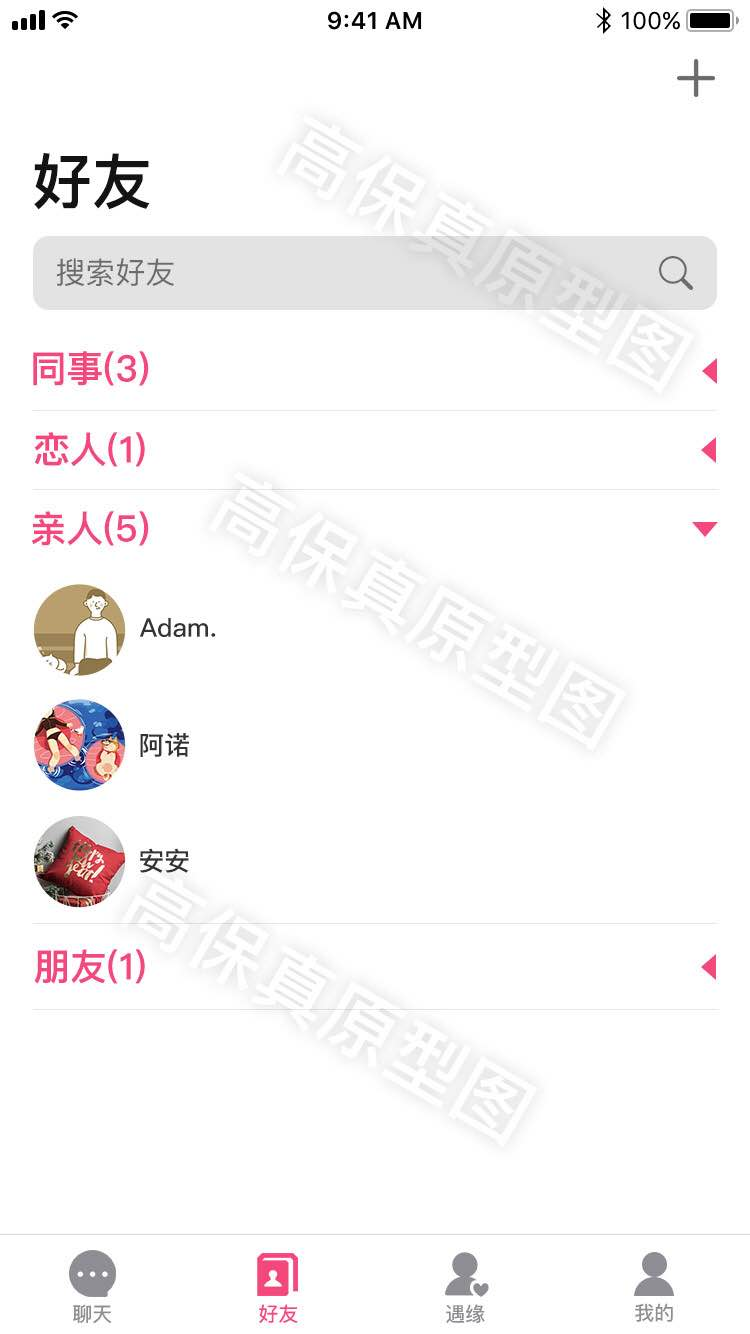
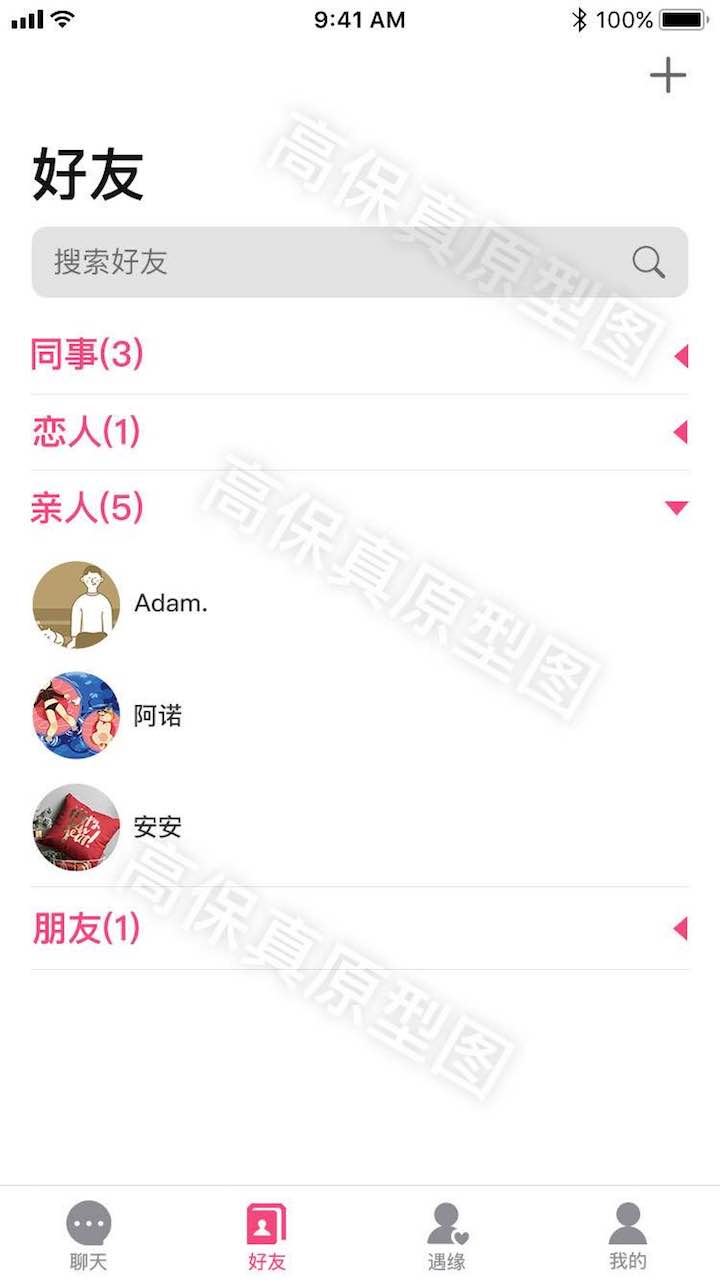
调整好友的界面

diff --git a/app/src/main/java/com/agmbat/meetyou/tab/MeetDatabase.java b/app/src/main/java/com/agmbat/meetyou/tab/MeetDatabase.java
@@ -3,6 +3,7 @@ package com.agmbat.meetyou.tab;
 import com.agmbat.meetyou.data.ChatMessage;
 import com.agmbat.meetyou.data.ContactInfo;
 import com.agmbat.meetyou.data.RecentChat;
+import com.agmbat.meetyou.tab.contacts.GroupHolder;
 
 import java.util.ArrayList;
 import java.util.List;
@@ -40,6 +41,36 @@ public class MeetDatabase {
         return list;
     }
 
+    public List<GroupHolder> getGroupList(String mLoginUserName) {
+        List<GroupHolder> groups = new ArrayList<GroupHolder>();
+
+        GroupHolder group1 = new GroupHolder("同事");
+        List<ContactInfo> friends = queryFriends(mLoginUserName);
+        group1.setContactList(friends);
+
+        GroupHolder group2 = new GroupHolder("恋人");
+        List<ContactInfo> recentContacts = queryRecentContacts(mLoginUserName);
+        group2.setContactList(recentContacts);
+
+        GroupHolder group3 = new GroupHolder("亲人");
+        List<ContactInfo> blockContacts = queryAllBlockUsers(mLoginUserName);
+        group3.setContactList(blockContacts);
+
+        GroupHolder group4 = new GroupHolder("朋友");
+        List<ContactInfo> blockContacts1 = queryAllBlockUsers(mLoginUserName);
+        group4.setContactList(blockContacts1);
+
+//        friendGroup.sort();
+        // recentlyGroup.sort();
+//        blockGroup.sort();
+
+        groups.add(group1);
+        groups.add(group2);
+        groups.add(group3);
+        groups.add(group4);
+        return groups;
+    }
+
     private RecentChat queryRecentChatFor(ContactInfo contactInfo) {
         RecentChat recentChat = new RecentChat();
         recentChat.setContact(contactInfo);
@@ -53,6 +84,7 @@ public class MeetDatabase {
         List<ContactInfo> list = new ArrayList<ContactInfo>();
         for (int i = 0; i < 10; i++) {
             ContactInfo contactInfo = new ContactInfo();
+            contactInfo.setNickname("Friends" + i);
             list.add(contactInfo);
         }
         return list;
@@ -62,6 +94,7 @@ public class MeetDatabase {
         List<ContactInfo> list = new ArrayList<ContactInfo>();
         for (int i = 0; i < 10; i++) {
             ContactInfo contactInfo = new ContactInfo();
+            contactInfo.setNickname("Friends" + i);
             list.add(contactInfo);
         }
         return list;
@@ -71,6 +104,7 @@ public class MeetDatabase {
         List<ContactInfo> list = new ArrayList<ContactInfo>();
         for (int i = 0; i < 10; i++) {
             ContactInfo contactInfo = new ContactInfo();
+            contactInfo.setNickname("Friends" + i);
             list.add(contactInfo);
         }
         return list;

diff --git a/app/src/main/java/com/agmbat/meetyou/tab/contacts/ContactsView.java b/app/src/main/java/com/agmbat/meetyou/tab/contacts/ContactsView.java
@@ -6,30 +6,49 @@ import android.widget.ImageView;
 import android.widget.RelativeLayout;
 import android.widget.TextView;
 
+import com.agmbat.android.image.ImageManager;
 import com.agmbat.meetyou.R;
 import com.agmbat.meetyou.data.ContactInfo;
+import com.nostra13.universalimageloader.core.DisplayImageOptions;
+import com.nostra13.universalimageloader.core.display.CircleBitmapDisplayer;
 
 public class ContactsView extends RelativeLayout {
 
     public ImageView mAvatarView;
     public TextView mNameView;
-    public TextView mPersonalMsgView;
-    public TextView mStatusView;
 
     public ContactsView(Context context) {
         super(context);
         View.inflate(context, R.layout.contacts_item, this);
         mAvatarView = (ImageView) findViewById(R.id.avatar);
         mNameView = (TextView) findViewById(R.id.name);
-        mPersonalMsgView = (TextView) findViewById(R.id.personal_msg);
-        mStatusView = (TextView) findViewById(R.id.status);
     }
 
     public void update(ContactInfo contactInfo) {
-        mAvatarView.setImageResource(R.drawable.ic_default_avatar);
-        mNameView.setText(contactInfo.getDisplayName());
-        mPersonalMsgView.setText(contactInfo.getPersonalMsg());
-        mStatusView.setText("在线");
+        mNameView.setText(contactInfo.getNickName());
+        String uri = "https://ss2.bdstatic.com/70cFvnSh_Q1YnxGkpoWK1HF6hhy/it/u=3109469113,4179252995&fm=27&gp=0.jpg";
+        ImageManager.displayImage(uri, mAvatarView, getOptions());
     }
 
+    /**
+     * 图片显示参数
+     */
+    private static DisplayImageOptions sOptions = null;
+
+    private static DisplayImageOptions getOptions() {
+        if (sOptions == null) {
+            DisplayImageOptions.Builder builder = new DisplayImageOptions.Builder();
+            // builder.showImageOnLoading(R.drawable.ic_stub);
+            int drawableId = R.drawable.ic_default_avatar;
+            builder.showImageForEmptyUri(drawableId);
+            builder.showImageOnFail(drawableId);
+            builder.cacheInMemory(true);
+            builder.cacheOnDisk(true);
+            builder.considerExifParams(false);
+//            builder.displayer(new SimpleBitmapDisplayer()); // new RoundedBitmapDisplayer(20)
+            builder.displayer(new CircleBitmapDisplayer()); // new RoundedBitmapDisplayer(20)
+            sOptions = builder.build();
+        }
+        return sOptions;
+    }
 }

diff --git a/app/src/main/java/com/agmbat/meetyou/tab/contacts/ContactsFragment.java b/app/src/main/java/com/agmbat/meetyou/tab/contacts/ContactsFragment.java
@@ -12,7 +12,6 @@ import android.view.View;
 import android.view.View.OnCreateContextMenuListener;
 import android.view.ViewGroup;
 import android.widget.ExpandableListView;
-import android.widget.ExpandableListView.ExpandableListContextMenuInfo;
 import android.widget.ExpandableListView.OnChildClickListener;
 import android.widget.ExpandableListView.OnGroupClickListener;
 import android.widget.ProgressBar;
@@ -22,7 +21,6 @@ import com.agmbat.meetyou.R;
 import com.agmbat.meetyou.data.ContactInfo;
 import com.agmbat.meetyou.tab.MeetDatabase;
 
-import java.util.ArrayList;
 import java.util.List;
 
 public class ContactsFragment extends Fragment implements OnGroupClickListener,
@@ -95,31 +93,6 @@ public class ContactsFragment extends Fragment implements OnGroupClickListener,
     private void updateFriendList() {
     }
 
-    private List<GroupHolder> initGroupList() {
-        MeetDatabase dataManager = MeetDatabase.getInstance();
-        List<GroupHolder> groups = new ArrayList<GroupHolder>();
-
-        GroupHolder friendGroup = new GroupHolder(GroupHolder.GROUP_FRIENDS);
-        List<ContactInfo> friends = dataManager.queryFriends(mLoginUserName);
-        friendGroup.setContactList(friends);
-
-        GroupHolder recentlyGroup = new GroupHolder(GroupHolder.GROUP_RECENTLY);
-        List<ContactInfo> recentContacts = dataManager.queryRecentContacts(mLoginUserName);
-        recentlyGroup.setContactList(recentContacts);
-
-        GroupHolder blockGroup = new GroupHolder(GroupHolder.GROUP_BLOCK);
-        List<ContactInfo> blockContacts = dataManager.queryAllBlockUsers(mLoginUserName);
-        blockGroup.setContactList(blockContacts);
-
-//        friendGroup.sort();
-        // recentlyGroup.sort();
-//        blockGroup.sort();
-
-        groups.add(friendGroup);
-        groups.add(recentlyGroup);
-        groups.add(blockGroup);
-        return groups;
-    }
 
     private void fillData(List<GroupHolder> groups) {
         mFriendsAdapter = new ContactsAdapter(getActivity(), groups);
@@ -238,7 +211,7 @@ public class ContactsFragment extends Fragment implements OnGroupClickListener,
 
         @Override
         protected List<GroupHolder> doInBackground(Void... params) {
-            return initGroupList();
+            return MeetDatabase.getInstance().getGroupList(mLoginUserName);
         }
 
         @Override

diff --git a/app/src/main/java/com/agmbat/meetyou/tab/contacts/GroupHolder.java b/app/src/main/java/com/agmbat/meetyou/tab/contacts/GroupHolder.java
@@ -15,10 +15,6 @@ import java.util.List;
  */
 public class GroupHolder {
 
-    public static final String GROUP_RECENTLY = "Recently";
-    public static final String GROUP_FRIENDS = "Hotlist";
-    public static final String GROUP_BLOCK = "Block";
-
     private final String mGroupName;
     private boolean mIsExpanded;
     private List<ContactInfo> mContacts = new ArrayList<ContactInfo>();
@@ -87,21 +83,8 @@ public class GroupHolder {
         mContacts.clear();
     }
 
-    public String getDisplayGroup() {
-        return String.format("%s(%d/%d)", getDisplayGroupName(), 1, getContactCount());
+    public String getDisplayGroupName() {
+        return String.format("%s(%d)", mGroupName, getContactCount());
     }
-
-    private String getDisplayGroupName() {
-        Context context = AppResources.getAppContext();
-        if (GROUP_RECENTLY.equals(mGroupName)) {
-            return context.getString(R.string.contacts_recently);
-        } else if (GROUP_FRIENDS.equals(mGroupName)) {
-            return context.getString(R.string.contacts_hotlist);
-        } else if (GROUP_BLOCK.equals(mGroupName)) {
-            return context.getString(R.string.contacts_block);
-        }
-        return "";
-    }
-
 
 }

diff --git a/app/src/main/java/com/agmbat/meetyou/tab/msg/RecentMsgView.java b/app/src/main/java/com/agmbat/meetyou/tab/msg/RecentMsgView.java
@@ -13,8 +13,6 @@ import com.agmbat.meetyou.data.RecentChat;
 import com.agmbat.time.TimeUtils;
 import com.nostra13.universalimageloader.core.DisplayImageOptions;
 import com.nostra13.universalimageloader.core.display.CircleBitmapDisplayer;
-import com.nostra13.universalimageloader.core.display.RoundedBitmapDisplayer;
-import com.nostra13.universalimageloader.core.display.SimpleBitmapDisplayer;
 
 public class RecentMsgView extends LinearLayout {
 
@@ -35,7 +33,7 @@ public class RecentMsgView extends LinearLayout {
     }
 
     public void update(RecentChat recentChat) {
-        mNameView.setText(recentChat.getContact().getDisplayName());
+        mNameView.setText(recentChat.getContact().getNickName());
         ChatMessage msg = recentChat.getLastChatMessage();
         if (msg != null) {
             mMessageView.setVisibility(View.VISIBLE);

diff --git a/app/src/main/java/com/agmbat/meetyou/tab/contacts/ContactsGroupView.java b/app/src/main/java/com/agmbat/meetyou/tab/contacts/ContactsGroupView.java
@@ -26,7 +26,7 @@ public class ContactsGroupView extends LinearLayout {
         } else {
             mGroupIndicatorView.setImageResource(R.drawable.group_collapsed);
         }
-        mGroupNameView.setText(groupHolder.getDisplayGroup());
+        mGroupNameView.setText(groupHolder.getDisplayGroupName());
     }
 
 }

diff --git a/app/src/main/java/com/agmbat/meetyou/data/ContactInfo.java b/app/src/main/java/com/agmbat/meetyou/data/ContactInfo.java
@@ -11,7 +11,7 @@ public class ContactInfo {
         mNickname = nickname;
     }
 
-    public String getDisplayName() {
+    public String getNickName() {
         return mNickname;
     }
 
